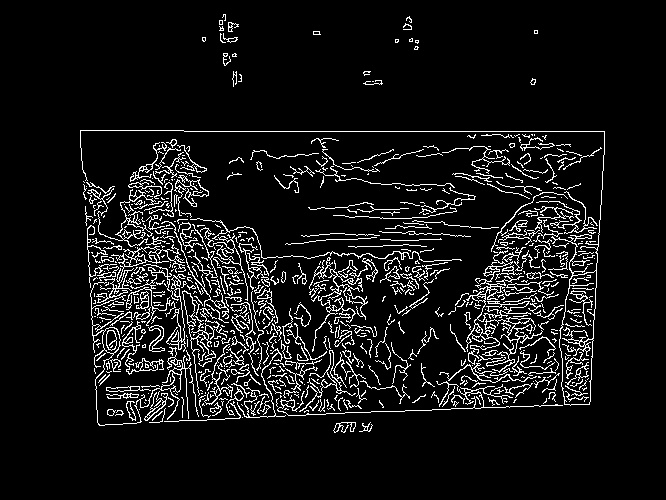
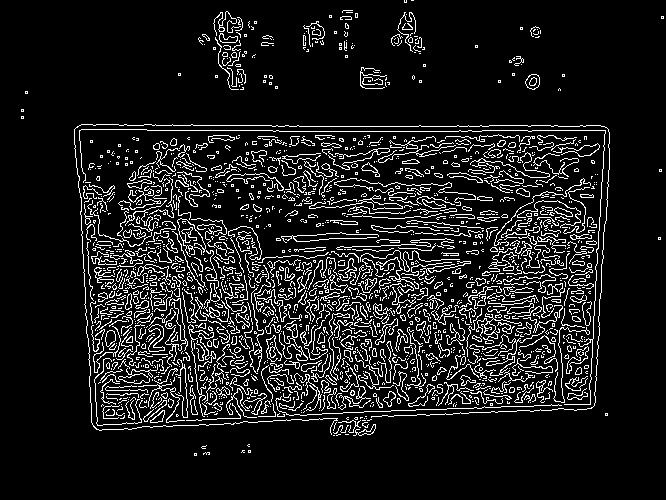
mainprocess.py created for collecting all classes in one file and preprocessing is added to that file

diff --git a/preprocessing.py b/preprocessing.py
@@ -7,6 +7,8 @@ SCALED_IMAGE = [128, 128]
 
 class PreProcessing:
     def __init__(self, image, L, hist_eq):
+        height, width = image.shape[:2]
+        image = cv2.resize(image, (int(width * (500.0 / height)), 500), cv2.INTER_LINEAR)
         self.image = image
         self.L = L
         self.hist_eq = hist_eq
@@ -14,8 +16,9 @@ class PreProcessing:
         self.height = 0
         self.cropped_image = np.array([])
         self.resized_image = np.array([])
+        self.warped = np.array([])
+        self.contours = self.image.copy()
         self.threshold = 0
-        self.smooth = 5
 
     # def get_image(self):
     #     '''This function is collecting image from picamera and
@@ -47,8 +50,8 @@ class PreProcessing:
     # def get_image_name(self):
     #     return self.img_name 
 
-    def gray_image(self, image):
-        image_gray = cv2.cvtColor(image, cv2.COLOR_BGR2GRAY)
+    def gray_image(self):
+        image_gray = cv2.cvtColor(self.image, cv2.COLOR_BGR2GRAY)
         return image_gray
 
     def get_width_height(self, image):
@@ -56,10 +59,8 @@ class PreProcessing:
         width = len(image[0,:])
         return [width, height]
 
-    def get_edged(self, image, G):
-        height, width = image.shape[:2]
-        image = cv2.resize(image, (int(width * (500.0 / height)), 500), cv2.INTER_LINEAR)
-        gray = self.gray_image(image)
+    def get_edged(self, G):
+        gray = self.gray_image()
         blur = self.get_blurred(gray, G)
         th = cv2.adaptiveThreshold(blur, 255, cv2.ADAPTIVE_THRESH_GAUSSIAN_C, cv2.THRESH_BINARY_INV,11,2)
         ret ,th2 = cv2.threshold(blur,0,255,cv2.THRESH_BINARY+cv2.THRESH_OTSU)
@@ -67,13 +68,8 @@ class PreProcessing:
 
         return edge
 
-    def get_contour(self, image):
-        height, width = image.shape[:2]
-        image = cv2.resize(image, (int(width * (500.0 / height)), 500), cv2.INTER_LINEAR)
-        edged = self.get_edged(image, 9)
-        cv2.imshow("edged", edged)
-        cv2.waitKey(0)
-        cv2.destroyAllWindows()
+    def get_contour(self, G):
+        edged = self.get_edged(G)
         __, contours, hierarchy = cv2.findContours(edged, cv2.RETR_LIST, cv2.CHAIN_APPROX_SIMPLE)
         
         first = False
@@ -85,11 +81,8 @@ class PreProcessing:
                 first = True
             elif cv2.contourArea(approx) < cv2.contourArea(new_approx):
                 approx = new_approx
-        cv2.drawContours(image, [approx], -1, (0, 255, 0), 2)
-        cv2.imshow("edged", image)
-        cv2.waitKey(0)
-        cv2.destroyAllWindows()
-        return approx, image
+        cv2.drawContours(self.contours, [approx], -1, (0, 255, 0), 2)
+        return approx, self.contours
         
     def order_contour(self, points):
         ordered_points = np.zeros((4, 2), dtype = "float32")
@@ -113,6 +106,7 @@ class PreProcessing:
         return ordered_points
 
     def check_points(self, points):
+        '''Checking there is four points to make a rectangle shape or not'''
         if len(points) == 4:
             return True 
         else:
@@ -122,10 +116,8 @@ class PreProcessing:
         '''Calculates distance between 2 points'''
         return math.sqrt((p1[0] - p2[0]) ** 2 + (p1[1] - p2[1]) ** 2)
 
-    def get_perspective(self, image, points):
+    def get_perspective(self, points):
         if self.check_points(points):
-            height, width = image.shape[:2]
-            image = cv2.resize(image, (int(width * (500.0 / height)), 500), cv2.INTER_LINEAR)
             ordered_points = self.order_contour(points)
             width_top = self.distance_calculator(ordered_points[0], ordered_points[1])
             width_bottom = self.distance_calculator(ordered_points[2], ordered_points[3])
@@ -139,15 +131,16 @@ class PreProcessing:
 
             img_size = np.array([[0, 0], [width_perspective - 1, 0], [width_perspective - 1, height_perspective -1], \
                 [0, height_perspective - 1]], dtype = "float32")
-            print points
-            print ordered_points
-            M = cv2.getPerspectiveTransform(ordered_points, img_size)
 
-            warped_image = cv2.warpPerspective(image, M, (width_perspective, height_perspective))
-            cv2.imshow("warped", warped_image)
-            cv2.waitKey(0)
-            cv2.destroyAllWindows()
+
+            M = cv2.getPerspectiveTransform(ordered_points, img_size)
+            warped_image = cv2.warpPerspective(self.image, M, (width_perspective, height_perspective))
+            
+            self.warped = warped_image
+
             return warped_image
+
+        
         else:
             #for now pass in future turn back to starting point of process.
             pass
@@ -155,7 +148,7 @@ class PreProcessing:
 
     def get_scaled(self):
         '''Scales image short edge to L value '''
-        [self.width, self.height] = self.get_width_height(self.image)
+        [self.width, self.height] = self.get_width_height(self.warped)
         new_width = 0
         new_height = 0
         if self.height > self.width:
@@ -167,7 +160,7 @@ class PreProcessing:
         elif self.height == self.width:
             new_width = self.L
             new_height = self.L
-        self.resized_image = cv2.resize(self.image, (new_width, new_height), \
+        self.resized_image = cv2.resize(self.warped, (new_width, new_height), \
         interpolation = cv2.INTER_LINEAR)
         return self.resized_image
 
@@ -377,15 +370,57 @@ class PreProcessing:
         # warped = cv2.warpPerspective(image, M, (awidth, aheight))
         # return warped
 
-img_name = raw_input("Please enter image name which will process for feature extraction: ")
-img_name += ".jpg"
-image = 0
-try:
-    image = cv2.imread(img_name, 1)
-except:
-    print "ERROR: This image is not exist or unknown format."
+
+            # def get_blurred(self, image, G):
+    #     '''Blurring cropped image'''
+    #     image = cv2.GaussianBlur(image, (G, G), 0)
+    #     return image
+
+    # def get_edges(self, image, G):
+    #     screenCnt = 0
+    #     height, width = image.shape[:2]
+    #     image = cv2.resize(image, (int(width * (500.0 / height)), 500), cv2.INTER_LINEAR)
+    #     gray = cv2.cvtColor(image, cv2.COLOR_BGR2GRAY)
+    #     blur = self.get_blurred(gray, G)
+        
+    #     __, cnts, hierarchy = cv2.findContours(edge.copy(), cv2.RETR_LIST, cv2.CHAIN_APPROX_SIMPLE)
+    #     cv2.namedWindow('image')
+    #     def nothing(x):
+    #         pass
+    #     cnts = sorted(cnts, key = cv2.contourArea, reverse = True)
+    #     cv2.createTrackbar('cnts','image',0, len(cnts) - 1,nothing)
+    #     # lines = cv2.HoughLines(edge,1,np.pi/180,int(th))
+    #     # print lines
+    #     # for line in lines:
+    #     #     for rho, theta in line:
+    #     #         a = np.cos(theta)
+    #     #         b = np.sin(theta)
+    #     #         x0 = a*rho
+    #     #         y0 = b*rho
+    #     #         x1 = int(x0 + 1000*(-b))
+    #     #         y1 = int(y0 + 1000*(a))
+    #     #         x2 = int(x0 - 1000*(-b))
+    #     #         y2 = int(y0 - 1000*(a))
+
+    #     #         cv2.line(image,(x1,y1),(x2,y2),(0,0,255),2)
+    #     while(1):
+    #         cv2.imshow('image', image)
+    #         epsilon = 0.05 * cv2.arcLength(cnts[cv2.getTrackbarPos('cnts','image')],True)
+    #         approx = cv2.approxPolyDP(cnts[cv2.getTrackbarPos('cnts','image')], epsilon, True)
+    #         #x,y,w,h = cv2.boundingRect(cnts[cv2.getTrackbarPos('cnts','image')])
+    #         #cv2.rectangle(image,(x,y),(x+w,y+h),(0,255,0),2)
+    #         k = cv2.waitKey(1) & 0xFF
+    #         if k == 27:
+    #             break
+    #         cv2.drawContours(image, cnts[cv2.getTrackbarPos('cnts','image')], -1, (0, 255, 0), 2)
+
+    #     cv2.destroyAllWindows()
+
+    #     return edge
+
+
 # intersection_points = []
-yunus = PreProcessing(image, 128, False)
+
 # image6, lines = yunus.get_hough_lines(image)
 
 # for i in range(0, len(lines)):
@@ -419,21 +454,17 @@ yunus = PreProcessing(image, 128, False)
 # points_new = np.asarray(points_new, dtype = "float32")
 
 # warped = yunus.get_perspective(image, points_new)
-points, image1 = yunus.get_contour(image)
-warped = yunus.get_perspective(image, points)
-image2 = yunus.get_scaled()
-image3 = yunus.get_cropped()
-image4 = yunus.get_blurred(image, 5)
-image5 = yunus.get_edged(image, 5)
+
+
 
 #image5= yunus.get_hist_eq()
 
 #image6 = yunus.get_blocks()
-cv2.imwrite("output/" + img_name[0:-4] + '_scaled.jpg', image2)
-cv2.imwrite("output/" + img_name[0:-4] + '_cropped.jpg', image3)
-cv2.imwrite("output/" + img_name[0:-4] + '_blurred.jpg', image4)
-cv2.imwrite("output/" + img_name[0:-4] + '_edged.jpg', image5)
-cv2.imwrite("output/" + img_name[0:-4] + '_warped.jpg', warped)
+# cv2.imwrite("output/" + img_name[0:-4] + '_scaled.jpg', image2)
+# cv2.imwrite("output/" + img_name[0:-4] + '_cropped.jpg', image3)
+# cv2.imwrite("output/" + img_name[0:-4] + '_blurred.jpg', image4)
+# cv2.imwrite("output/" + img_name[0:-4] + '_edged.jpg', image5)
+# cv2.imwrite("output/" + img_name[0:-4] + '_warped.jpg', warped)
 
 # cv2.imwrite("output/" + img_name[0:-4] + '_lines.jpg', image6)
 # cv2.imwrite("output/" + img_name[0:-4] + '_intersection_normal.jpg', intersection_normal)

diff --git a/mainprocess.py b/mainprocess.py
@@ -1,0 +1,24 @@
+import preprocessing as pre
+import cv2
+
+img_name = raw_input("Please enter image name which will process for feature extraction: ")
+print img_name
+img_name += ".jpg"
+print img_name
+image = 0
+try:
+    image = cv2.imread(img_name, 1)
+except:
+    print "ERROR: This image is not exist or unknown format."
+
+yunus = pre.PreProcessing(image, 128, False)
+
+points, image1 = yunus.get_contour(9)
+warped = yunus.get_perspective(points)
+
+image2 = yunus.get_scaled()
+image3 = yunus.get_cropped()
+
+cv2.imwrite("outputv2/" + img_name[0:-4] + '_scaled.jpg', image2)
+cv2.imwrite("outputv2/" + img_name[0:-4] + '_cropped.jpg', image3)
+cv2.imwrite("outputv2/" + img_name[0:-4] + '_warped.jpg', warped)
